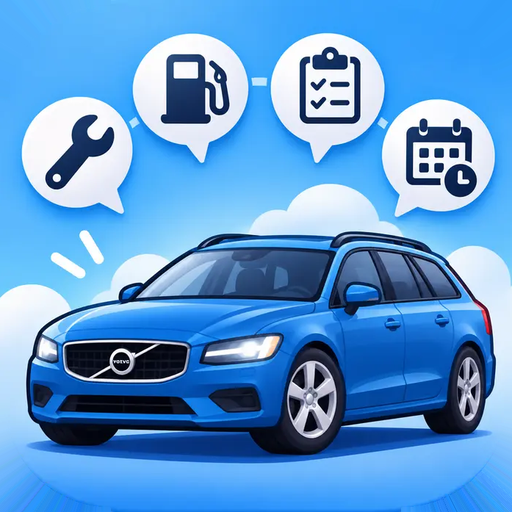
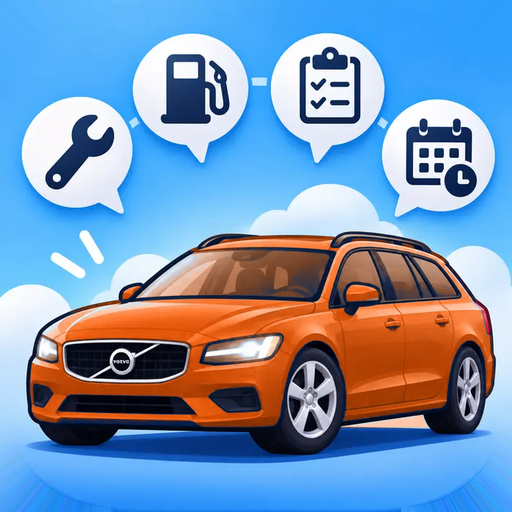
Orange bil i välkomstbilden och appikonerna
Claude-Session: https://claude.ai/code/session_01PEFnyMQFqKgaJqWGZT8Rs3

Changed region(s): [[0.0312, 0.4375, 0.9688, 0.8438]]

diff --git a/index.html b/index.html
@@ -8,8 +8,8 @@
 <meta name="theme-color" content="#E9E4DF" media="(prefers-color-scheme: light)">
 <meta name="theme-color" content="#171514" media="(prefers-color-scheme: dark)">
 <link rel="manifest" href="manifest.webmanifest">
-<link rel="icon" href="icons/icon-192.png?v=2" type="image/png">
-<link rel="apple-touch-icon" href="icons/apple-touch-icon.png?v=2">
+<link rel="icon" href="icons/icon-192.png?v=3" type="image/png">
+<link rel="apple-touch-icon" href="icons/apple-touch-icon.png?v=3">
 <meta name="apple-mobile-web-app-capable" content="yes">
 <meta name="mobile-web-app-capable" content="yes">
 <meta name="apple-mobile-web-app-title" content="Bildagboken">

diff --git a/sw.js b/sw.js
@@ -1,5 +1,5 @@
 // Service worker: gör att appen startar även utan nät och kan visa notiser.
-const CACHE = "bildagboken-v108";
+const CACHE = "bildagboken-v109";
 const SHELL = [
   "./",
   "./index.html",
